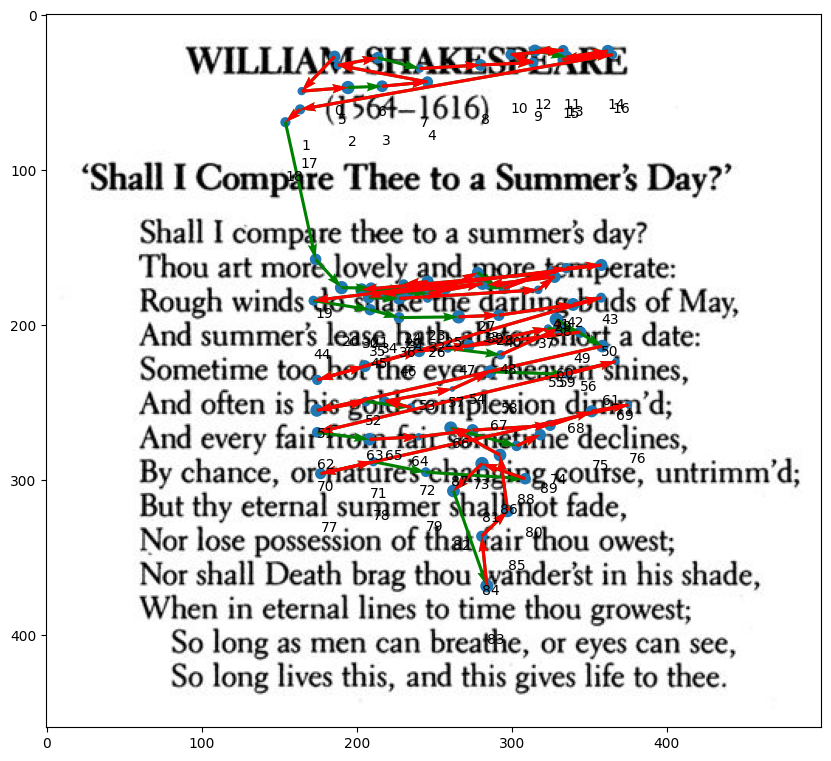
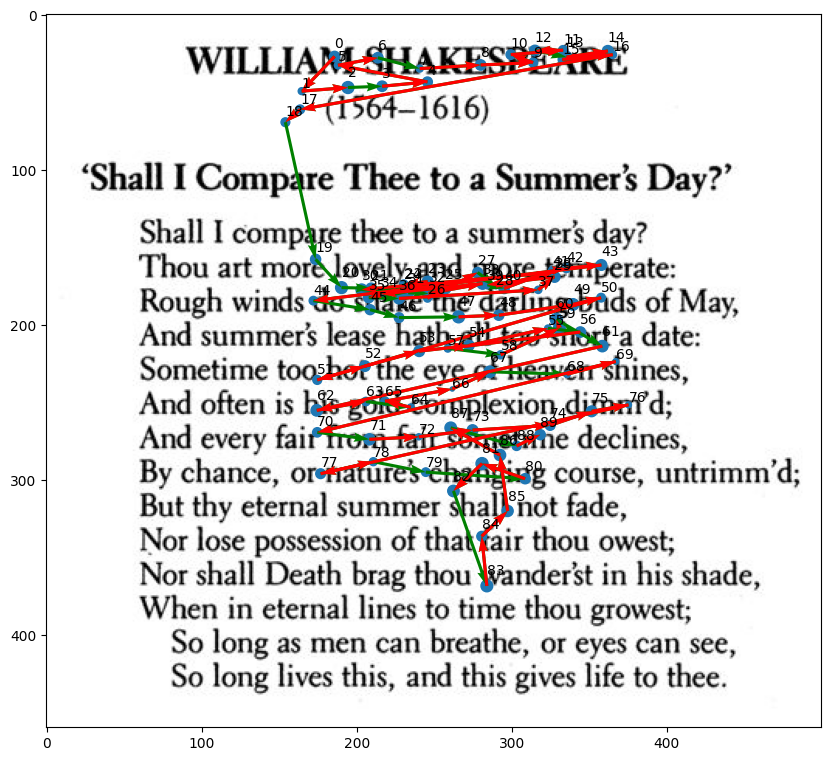
Update README.md and some fixes in extractor

diff --git a/eyetracking/features/extractor.py b/eyetracking/features/extractor.py
@@ -125,8 +125,12 @@ class Extractor(BaseEstimator, TransformerMixin):
         data_df: pd.DataFrame = X[
             [self.x, self.y, self.t, self.duration, self.dispersion]
         ]
+
         if self.pk is not None:
             data_df = pd.concat([data_df, X[self.pk]], axis=1)
+
+        if self.aoi is not None:
+            data_df = pd.concat([data_df, X[self.aoi]], axis=1)
 
         for feature in self.features:
             feature.set_data(

diff --git a/eyetracking/visualization/static_visualization.py b/eyetracking/visualization/static_visualization.py
@@ -49,7 +49,7 @@ def scanpath_visualization(
     if points_enumeration:
         enumeration = range(dX.shape[0])
         for i in enumeration:
-            plt.annotate(i, xy=(X[i], Y[i] - (fixation_size[i] / 2)))
+            plt.annotate(i, xy=(X[i], Y[i] - (fixation_size[i] / 10)))
 
     if not is_vectors:
         plt.plot(

diff --git a/eyetracking/features/stats.py b/eyetracking/features/stats.py
@@ -2,7 +2,7 @@ from typing import List, Union
 
 import numpy as np
 import pandas as pd
-from extractor import BaseTransformer
+from .extractor import BaseTransformer
 from numba import jit
 
 

diff --git a/README.md b/README.md
@@ -924,9 +924,199 @@ extractor.fit_transform(df_fix)
 <p>348 rows × 26 columns</p>
 </div>
 
+### 3.3 Extracting features for each area of interest
+
+```python
+reg_vel = RegressionVelocity(stats=['kurtosis', 'skew'], x=x, y=y, t=t, duration=dur, 
+                      dispersion=dis, aoi=aoi, pk=['tekst', 'Participant'], return_df=True)
+res = reg_vel.transform(df_fix)
+res.fillna(0, inplace=True)
+res
+```
 
 
-### 3.3 Integrating into `sklearn` pipeline
+
+
+<div>
+<style scoped>
+    .dataframe tbody tr th:only-of-type {
+        vertical-align: middle;
+    }
+
+    .dataframe tbody tr th {
+        vertical-align: top;
+    }
+
+    .dataframe thead th {
+        text-align: right;
+    }
+</style>
+<table border="1" class="dataframe">
+  <thead>
+    <tr style="text-align: right;">
+      <th></th>
+      <th>reg_vel_C_kurtosis</th>
+      <th>reg_vel_C_skew</th>
+      <th>reg_vel_N_kurtosis</th>
+      <th>reg_vel_N_skew</th>
+      <th>reg_vel_D_kurtosis</th>
+      <th>reg_vel_D_skew</th>
+      <th>reg_vel_notext_kurtosis</th>
+      <th>reg_vel_notext_skew</th>
+      <th>reg_vel_nan_kurtosis</th>
+      <th>reg_vel_nan_skew</th>
+    </tr>
+  </thead>
+  <tbody>
+    <tr>
+      <th>0</th>
+      <td>6.772461</td>
+      <td>2.313625</td>
+      <td>1.295909</td>
+      <td>0.987085</td>
+      <td>0.820745</td>
+      <td>0.950178</td>
+      <td>0.0</td>
+      <td>0.0</td>
+      <td>0</td>
+      <td>0</td>
+    </tr>
+    <tr>
+      <th>1</th>
+      <td>0.000000</td>
+      <td>0.000000</td>
+      <td>0.013302</td>
+      <td>0.763258</td>
+      <td>-0.718680</td>
+      <td>-0.206030</td>
+      <td>0.0</td>
+      <td>0.0</td>
+      <td>0</td>
+      <td>0</td>
+    </tr>
+    <tr>
+      <th>2</th>
+      <td>-1.272015</td>
+      <td>0.208680</td>
+      <td>-0.020635</td>
+      <td>0.893706</td>
+      <td>2.013581</td>
+      <td>-1.522644</td>
+      <td>0.0</td>
+      <td>0.0</td>
+      <td>0</td>
+      <td>0</td>
+    </tr>
+    <tr>
+      <th>3</th>
+      <td>0.807392</td>
+      <td>0.167292</td>
+      <td>0.614425</td>
+      <td>0.448141</td>
+      <td>-1.872466</td>
+      <td>0.432761</td>
+      <td>0.0</td>
+      <td>0.0</td>
+      <td>0</td>
+      <td>0</td>
+    </tr>
+    <tr>
+      <th>4</th>
+      <td>4.087055</td>
+      <td>1.621437</td>
+      <td>1.526085</td>
+      <td>1.099990</td>
+      <td>-0.978084</td>
+      <td>-0.285111</td>
+      <td>0.0</td>
+      <td>0.0</td>
+      <td>0</td>
+      <td>0</td>
+    </tr>
+    <tr>
+      <th>...</th>
+      <td>...</td>
+      <td>...</td>
+      <td>...</td>
+      <td>...</td>
+      <td>...</td>
+      <td>...</td>
+      <td>...</td>
+      <td>...</td>
+      <td>...</td>
+      <td>...</td>
+    </tr>
+    <tr>
+      <th>269</th>
+      <td>0.000000</td>
+      <td>0.000000</td>
+      <td>0.000000</td>
+      <td>0.000000</td>
+      <td>0.000000</td>
+      <td>0.000000</td>
+      <td>0.0</td>
+      <td>0.0</td>
+      <td>0</td>
+      <td>0</td>
+    </tr>
+    <tr>
+      <th>270</th>
+      <td>0.000000</td>
+      <td>0.000000</td>
+      <td>0.000000</td>
+      <td>0.000000</td>
+      <td>0.000000</td>
+      <td>0.000000</td>
+      <td>0.0</td>
+      <td>0.0</td>
+      <td>0</td>
+      <td>0</td>
+    </tr>
+    <tr>
+      <th>271</th>
+      <td>0.000000</td>
+      <td>0.000000</td>
+      <td>0.000000</td>
+      <td>0.000000</td>
+      <td>0.000000</td>
+      <td>0.000000</td>
+      <td>0.0</td>
+      <td>0.0</td>
+      <td>0</td>
+      <td>0</td>
+    </tr>
+    <tr>
+      <th>272</th>
+      <td>0.000000</td>
+      <td>0.000000</td>
+      <td>0.000000</td>
+      <td>0.000000</td>
+      <td>0.000000</td>
+      <td>0.000000</td>
+      <td>0.0</td>
+      <td>0.0</td>
+      <td>0</td>
+      <td>0</td>
+    </tr>
+    <tr>
+      <th>273</th>
+      <td>0.000000</td>
+      <td>0.000000</td>
+      <td>0.000000</td>
+      <td>0.000000</td>
+      <td>0.000000</td>
+      <td>0.000000</td>
+      <td>0.0</td>
+      <td>0.0</td>
+      <td>0</td>
+      <td>0</td>
+    </tr>
+  </tbody>
+</table>
+<p>274 rows × 10 columns</p>
+</div>
+
+### 3.4 Integrating into `sklearn` pipeline
 
 
 ```python
@@ -953,7 +1143,7 @@ pipe.fit(X_train, y_train).score(X_test, y_test)
 
     Accuracy on test: 0.8351351351351351
 
-### 3.4. Heatmaps
+### 3.5 Heatmaps
 
 Example usage of similarity matrix.
 
